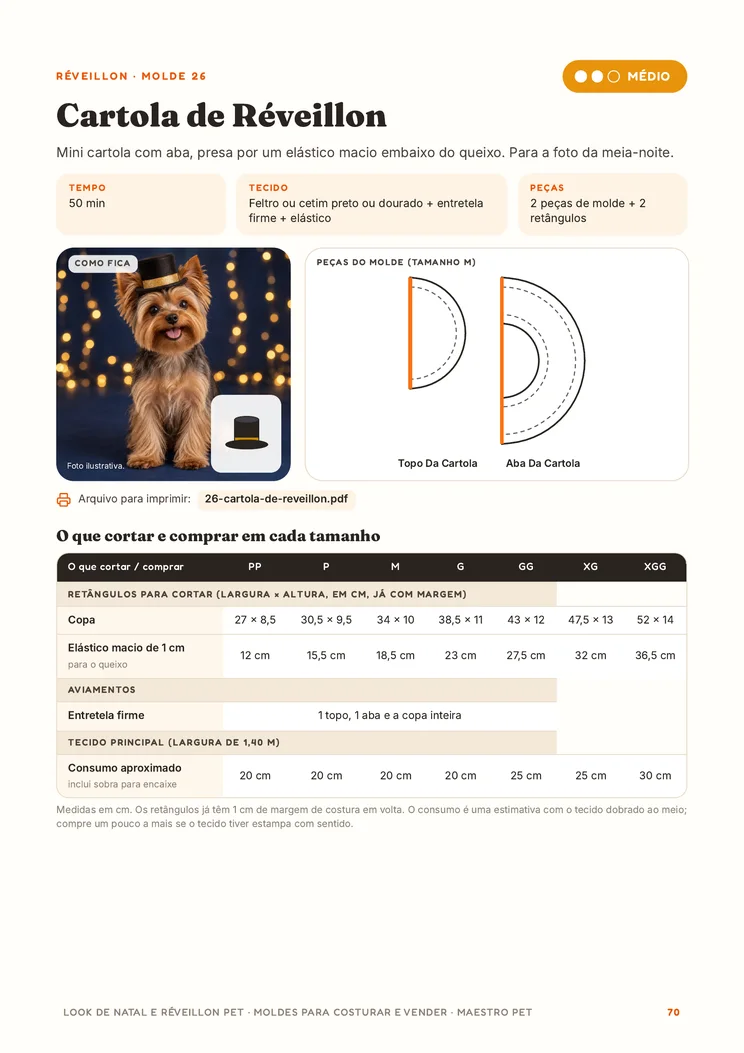
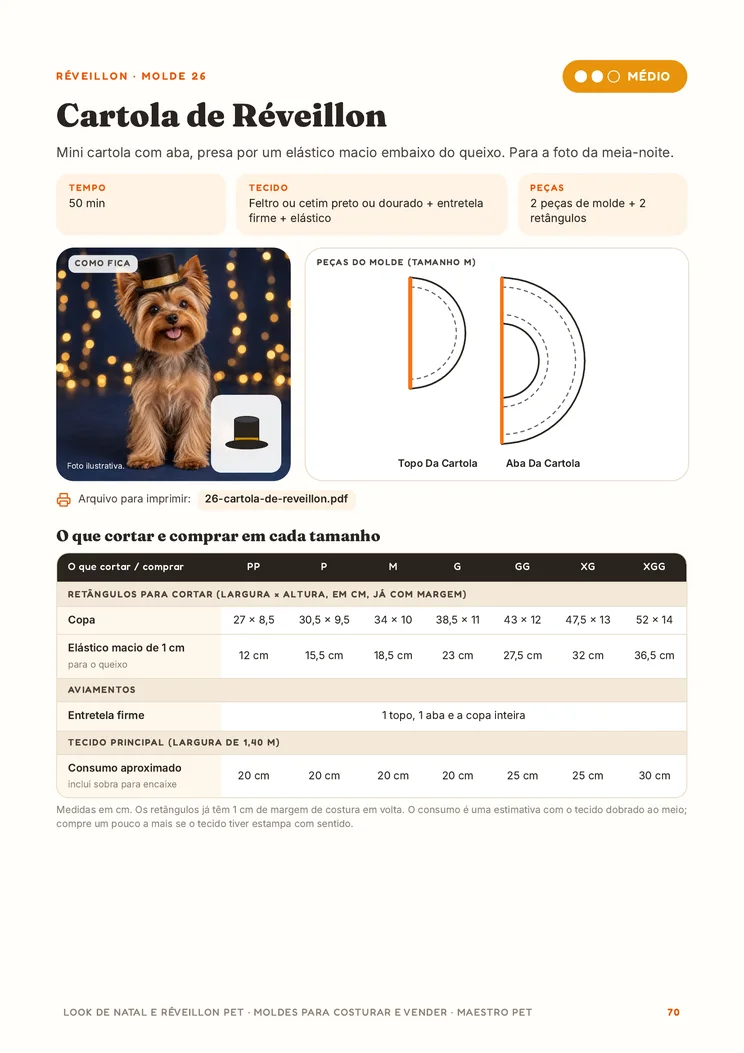
Look de Verão e Carnaval Pet: página com 30 moldes a R$ 47 + prévias do Réveillon com o consumo corrigido
Claude-Session: https://claude.ai/code/session_015DPV1uKuxt4KhrgCQWoJpN

diff --git a/src/lib/vendas/moldes-verao.ts b/src/lib/vendas/moldes-verao.ts
@@ -1,0 +1,129 @@
+import type { PaginaVendas } from "./tipos";
+
+export const moldesVerao: PaginaVendas = {
+  slug: "moldes-verao",
+  item: "os moldes",
+  seo: {
+    titulo: "Look de Verão e Carnaval Pet: 30 moldes prontos para costurar e vender até o Carnaval",
+    descricao:
+      "30 moldes de roupas de verão, acessórios de praia e fantasias de Carnaval para cães, do PP ao XGG, para imprimir em A4, com passo a passo, medidas de corte e foto ilustrativa de cada peça. E o capítulo Vender no Verão e no Carnaval: calendário de encomendas, combos, preço e mensagens prontas.",
+  },
+  hero: {
+    eyebrow: "Maestro Pet Negócios · Moldes de Verão e Carnaval",
+    fatos: ["30 moldes", "PP ao XGG", "Verão e Carnaval"],
+    antes: "Looks de Verão e Carnaval para costurar e ",
+    destaque: "vender até março.",
+    depois: "",
+    lead: "Regatas, vestidos leves, camisa de praia, saída de praia e chapéu para o verão; abadá, saia de frevo, leão, unicórnio, abelha e marinheiro para o Carnaval: 30 moldes do PP ao XGG, com passo a passo, e o calendário para vender de dezembro a março.",
+    foto: ["/fotos/negocios-moda-verao-hero-4x5.webp", "Jack Russell vestindo uma camisa de praia estampada com folhas e flores tropicais"],
+    selos: ["Acesso imediato", "30 moldes do PP ao XGG", "Garantia de 7 dias"],
+  },
+  dores: {
+    titulo: "Se você costura, ou quer costurar, e não quer parar de vender depois do Natal",
+    frases: [
+      "Depois do Natal as encomendas somem, e eu não tenho nada novo para oferecer.",
+      "Me pedem fantasia de Carnaval para cachorro e eu não tenho molde.",
+      "Acho molde em um tamanho só, e o cliente tem um cão grande.",
+      "Não sei quais peças fazem sentido no calor.",
+      "Começo a divulgar o Carnaval tarde e não dá tempo de entregar.",
+      "Não sei quanto cobrar por uma fantasia com capuz.",
+    ],
+  },
+  virada: {
+    imagem: "/produtos/negocios/virada-moda-verao.webp",
+    alt: "Página do calendário de verão e Carnaval do livro Look de Verão e Carnaval Pet",
+    eyebrow: "O que é real e o que é ilusão",
+    titulo: "O verão tem quatro meses *e o Carnaval no meio.*",
+    paragrafos: [
+      "**Ilusão:** depois do Natal, ninguém compra roupa para cachorro. **Real:** o verão vai de dezembro a março, com férias, praia, casamentos e o Carnaval no meio. O livro traz **o calendário de dezembro ao fim do verão**, com a data para fechar as encomendas de Carnaval.",
+      "**Ilusão:** qualquer molde serve. **Real:** no calor, o cão precisa de tecido leve e de peças que deixem as patas livres. Cada molde foi desenhado a partir das medidas de cada tamanho e conferido medida a medida, do PP ao XGG, e as fantasias trazem o aviso de uso: foto e desfile curto, na sombra e com alguém olhando.",
+      "**Ilusão:** o Carnaval garante vendas. **Real:** ninguém pode garantir vendas. O que o livro entrega é o caminho: poucas peças bem feitas, combos, preço certo e mensagens prontas para o WhatsApp.",
+    ],
+  },
+  recebe: {
+    titulo: "Os moldes e o plano do verão, *em um material só.*",
+    itens: [
+      ["30 moldes do PP ao XGG", "12 roupas de verão (regatas, vestidos leves, saídas de praia, colete e vestido de linho, camisa de praia e mais), 8 acessórios (bandana, canga, laço, bolsinha de petiscos, chapéu, porta-garrafinha e colar de flores) e 10 de Carnaval (abadá, saia de frevo, capa de super-herói, joaninha, abelha, marinheiro, leão, unicórnio e mais)."],
+      ["Do fácil ao avançado", "Dentro de cada área, os moldes vêm em ordem de dificuldade, com selo de cor e uma trilha de moldes para aprender costurando."],
+      ["Página de cada molde", "Foto ilustrativa da peça, desenho das peças (quando há peças para imprimir), tabela do que cortar e comprar em cada tamanho, consumo de tecido e passo a passo numerado."],
+      ["Moldes para imprimir", "25 arquivos PDF em A4, tamanho real, com quadrado de teste de 5 cm e mapa de montagem das folhas. Os outros 5 moldes são só retângulos, com as medidas no livro."],
+      ["Antes de costurar", "Como medir o cão, tabela de tamanhos, tecidos de verão, materiais, técnicas básicas, ajustes rápidos e onde comprar."],
+      ["Vender no Verão e no Carnaval", "Calendário de dezembro a março, data limite de encomendas, 9 combos, primeiro estoque, embalagem, proposta para pet shop, preço, mensagens e legendas de verão e de Carnaval."],
+    ],
+    paginas: [
+      ["/produtos/negocios/verao-pag24.webp", "A página de um molde: foto, peças, o que cortar em cada tamanho e o consumo de tecido."],
+      ["/produtos/negocios/verao-pag25.webp", "O passo a passo do mesmo molde, com dica para vender e espaço para anotações."],
+      ["/produtos/negocios/verao-pag59.webp", "A área de Carnaval, com os moldes em ordem de dificuldade."],
+      ["/produtos/negocios/verao-pag76.webp", "Fantasia de leão com capuz e juba."],
+      ["/produtos/negocios/verao-pag77.webp", "O passo a passo do leão, com o aviso de uso no calor."],
+      ["/produtos/negocios/verao-pag81.webp", "O calendário de verão e Carnaval, de dezembro a março."],
+      ["/produtos/negocios/verao-pag82.webp", "Combos de verão e como dar preço a eles."],
+      ["/produtos/negocios/verao-pag83.webp", "Vender no Carnaval: combos e mensagens para blocos e grupos."],
+      ["/produtos/negocios/verao-pag5.webp", "O sumário: as áreas de verão e Carnaval e o capítulo de vendas."],
+    ],
+  },
+  numeros: [["30", "moldes de verão e Carnaval"], ["7", "tamanhos, do PP ao XGG"], ["92", "páginas no livro"]],
+  metodo: {
+    eyebrow: "O calendário do verão",
+    titulo: "Do mostruário à *Quarta-feira de Cinzas.*",
+    rotulo: "Etapa",
+    passos: [
+      ["Dezembro: prepare e fotografe", "Escolha 4 a 6 moldes de verão e 1 ou 2 de Carnaval e costure o mostruário"],
+      ["Janeiro: venda o verão e abra o Carnaval", "Lance as fantasias já com a data limite de encomendas"],
+      ["Até 25 de janeiro: feche as encomendas", "Corte por molde e tamanho e costure em etapas"],
+      ["Fevereiro e março", "Entregue antes do Carnaval e siga com as peças de verão até março"],
+    ],
+  },
+  bonus: {
+    titulo: "O que vem *junto com os moldes.*",
+    itens: [
+      { icone: "Gift", titulo: "Combos de verão e Carnaval", texto: "Nove combos prontos (Kit praia, Pós-banho, Pajem de casamento, Bloco completo e outros), com a conta honesta do preço do combo." },
+      { icone: "Calendar", titulo: "Fila de encomendas", texto: "Uma ficha para imprimir e anotar cada pedido com a data de entrega, para saber a hora de fechar as encomendas." },
+      { icone: "FileText", titulo: "Comece aqui", texto: "O passo a passo para baixar, imprimir em tamanho real e o que fazer se você não tem impressora." },
+    ],
+  },
+  paraQuem: {
+    sim: [
+      "Você sabe usar a máquina de costura, mesmo que o básico",
+      "Você quer vender roupas, acessórios e fantasias para cães no verão e no Carnaval",
+      "Você quer moldes em vários tamanhos, de cão pequeno a grande",
+      "Você topa fazer uma peça de prova e ajustar antes de vender",
+    ],
+    nao: [
+      "Você procura dinheiro rápido ou garantido",
+      "Você nunca usou máquina de costura e não quer aprender o básico",
+      "Você quer moldes de roupa para gato ou para pessoas (os moldes são para cães)",
+    ],
+  },
+  oferta: {
+    itens: [
+      "Livro de 92 páginas com os 30 moldes de verão e Carnaval, do fácil ao avançado",
+      "25 moldes para imprimir em A4, cada um nos 7 tamanhos (PP ao XGG)",
+      "Foto, peças, tabela de corte e passo a passo de cada molde",
+      "Medir, tamanhos, tecidos, técnicas, ajustes e onde comprar",
+      "Calendário de dezembro a março com data limite de encomendas",
+      "9 combos, primeiro estoque e embalagem",
+      "Mensagens e legendas de verão e Carnaval prontas e proposta para pet shop",
+    ],
+    complemento:
+      "os 60 moldes do ano todo (Moldes de Roupa Pet) com preço especial, ou o manual Fotografia Pet (opcional, no checkout).",
+  },
+  garantia:
+    "Baixe os moldes, imprima, costure uma peça e leia o capítulo de vendas. Se em até 7 dias você achar que não valeu a pena, é só pedir o reembolso e você recebe 100% do valor de volta. Sem perguntas e sem burocracia.",
+  faq: [
+    ["Preciso saber costurar?", "Precisa saber o básico da máquina de costura: ponto reto e zigue-zague. O livro começa pelos moldes mais fáceis, como a bandana e o laço de coleira."],
+    ["Que máquina eu preciso?", "Uma máquina doméstica com ponto reto e zigue-zague faz todos os moldes. A overloque ajuda, mas não é obrigatória."],
+    ["Os moldes servem para cachorro grande?", "Sim. Cada molde vem em 7 tamanhos, do PP ao XGG, para cães de até 100 cm de tórax. O livro ensina a medir e a escolher o tamanho."],
+    ["Os moldes foram conferidos?", "Foram desenhados a partir das medidas de cada tamanho e conferidos medida a medida: as costuras que se encontram têm o mesmo comprimento, e gola e tórax batem com o cão. Não foram provados em um cão de cada tamanho: por isso o livro pede uma prova em tecido barato antes do tecido bom."],
+    ["Roupa no calor faz mal ao cão?", "No sol forte e no asfalto quente, o cão fica melhor sem roupa e na sombra. Por isso o livro indica tecidos leves e traz o aviso de uso nas fantasias, no chapéu e nas tiaras: para fotos e momentos curtos, em lugar fresco e sempre com alguém olhando."],
+    ["Já tenho os Moldes de Roupa Pet ou o Look de Natal. Este é diferente?", "Sim. São 30 moldes de verão e Carnaval e um capítulo de vendas próprio para a temporada. As roupas usam a mesma base de corpo do kit do ano todo, com modelos, tecidos e acabamentos de verão."],
+    ["As fotos são das peças costuradas com os moldes?", "As fotos são ilustrativas: mostram como cada peça fica, para inspirar. O seu resultado depende do tecido, das cores e do acabamento."],
+    ["Posso vender as roupas que eu costurar?", "Pode, quantas quiser. O que não pode é revender, copiar ou compartilhar os moldes e o livro."],
+    ["O livro garante que eu vou vender?", "Não. Nenhum material pode garantir vendas ou renda. O livro entrega os moldes, o calendário e as ferramentas; o resultado depende do seu acabamento, das fotos, do preço e da divulgação."],
+    ["Como recebo?", "Logo depois da confirmação do pagamento você recebe o acesso no seu e-mail: o livro e a pasta com os moldes para imprimir."],
+    ["E se não for para mim?", "Você tem 7 dias de garantia. Se achar que não valeu a pena, pede o reembolso e recebe 100% do valor de volta."],
+  ],
+  ctaFinal: "Comece agora *e venda no verão e no Carnaval.*",
+  aviso:
+    "Material educativo. Não garante vendas, clientes ou renda: o resultado depende do seu trabalho. As fotos são ilustrativas. Os moldes foram conferidos por cálculo; faça sempre uma prova antes de cortar o tecido definitivo. Fantasias, chapéu, tiaras e golas devem ser usados por pouco tempo, em lugar fresco e com supervisão.",
+};

diff --git a/src/lib/produtos.ts b/src/lib/produtos.ts
@@ -235,6 +235,7 @@ export const PRODUTOS: Produto[] = [
   { slug: "fotografia", linha: "negocios", grupo: "comece", nome: "Fotografia Pet: o manual do negócio", resumo: "Bem-estar, contrato, preço e clientes.", chamada: "Sessão com bem-estar, equipamento em 3 níveis, contrato e uso de imagem, preço, clientes e plano de carreira em 4 níveis.", dor: "Fotografo pets bem, mas não sei transformar em negócio", preco: 67, capa: "/produtos/negocios/capa-fotografia.webp", checkout: "https://pay.cakto.com.br/r48j45w", lancado: true },
   { slug: "moldes", linha: "negocios", grupo: "comece", nome: "Moldes de Roupa Pet: do molde à primeira venda", resumo: "60 moldes do PP ao XGG e o plano de venda.", chamada: "60 moldes de roupa para cães, do PP ao XGG, com passo a passo e fotos, e o plano para montar a sua marca e fazer a primeira venda.", dor: "Costuro, mas não acho molde bom nem sei como vender", preco: 67, capa: "/produtos/negocios/capa-moda.webp", checkout: "https://pay.cakto.com.br/38vnz7r", lancado: true },
   { slug: "moldes-natal", linha: "negocios", grupo: "comece", nome: "Look de Natal e Réveillon Pet: 30 moldes prontos para costurar e vender no fim de ano", resumo: "30 moldes de Natal e Réveillon do PP ao XGG e o calendário de vendas.", chamada: "30 moldes de roupas e acessórios de Natal e Ano-Novo para cães, do PP ao XGG, com passo a passo e fotos, e o plano para vender no fim de ano.", dor: "Me pedem roupa de Natal para cachorro e eu não tenho molde", preco: 47, capa: "/produtos/negocios/capa-moda-natal.webp", checkout: "https://pay.cakto.com.br/gputd4j", lancado: true },
+  { slug: "moldes-verao", linha: "negocios", grupo: "comece", nome: "Look de Verão e Carnaval Pet: 30 moldes prontos para costurar e vender até o Carnaval", resumo: "30 moldes de verão e Carnaval do PP ao XGG e o calendário de vendas.", chamada: "30 moldes de roupas de verão, acessórios de praia e fantasias de Carnaval para cães, do PP ao XGG, com passo a passo e fotos, e o plano para vender de dezembro a março.", dor: "Depois do Natal as encomendas somem e eu não tenho o que oferecer", preco: 47, capa: "/produtos/negocios/capa-moda-verao.webp", checkout: "https://pay.cakto.com.br/z8rqcut", lancado: true },
 ];
 
 export const produto = (slug: string) => PRODUTOS.find((p) => p.slug === slug)!;

diff --git a/src/lib/vendas/index.ts b/src/lib/vendas/index.ts
@@ -28,8 +28,9 @@ import { colorir } from "./colorir";
 import { planner } from "./planner";
 import { moldes } from "./moldes";
 import { moldesNatal } from "./moldes-natal";
+import { moldesVerao } from "./moldes-verao";
 
 /** Páginas de vendas publicadas, por slug. Para lançar um guia, adicione o arquivo e registre aqui. */
 export const PAGINAS: Record<string, PaginaVendas> = { xixi, filhote, petiscos, tedio, sozinho, gato, normal, saude, rg, album, calendario, papelaria, influenciador,
   aniversario, natal, placas, diplomas, painel, baralho, comandos, chegou, colorir, planner,
-  confeitaria, passeador, petsitter, fotografia, moldes, "moldes-natal": moldesNatal };
+  confeitaria, passeador, petsitter, fotografia, moldes, "moldes-natal": moldesNatal, "moldes-verao": moldesVerao };
